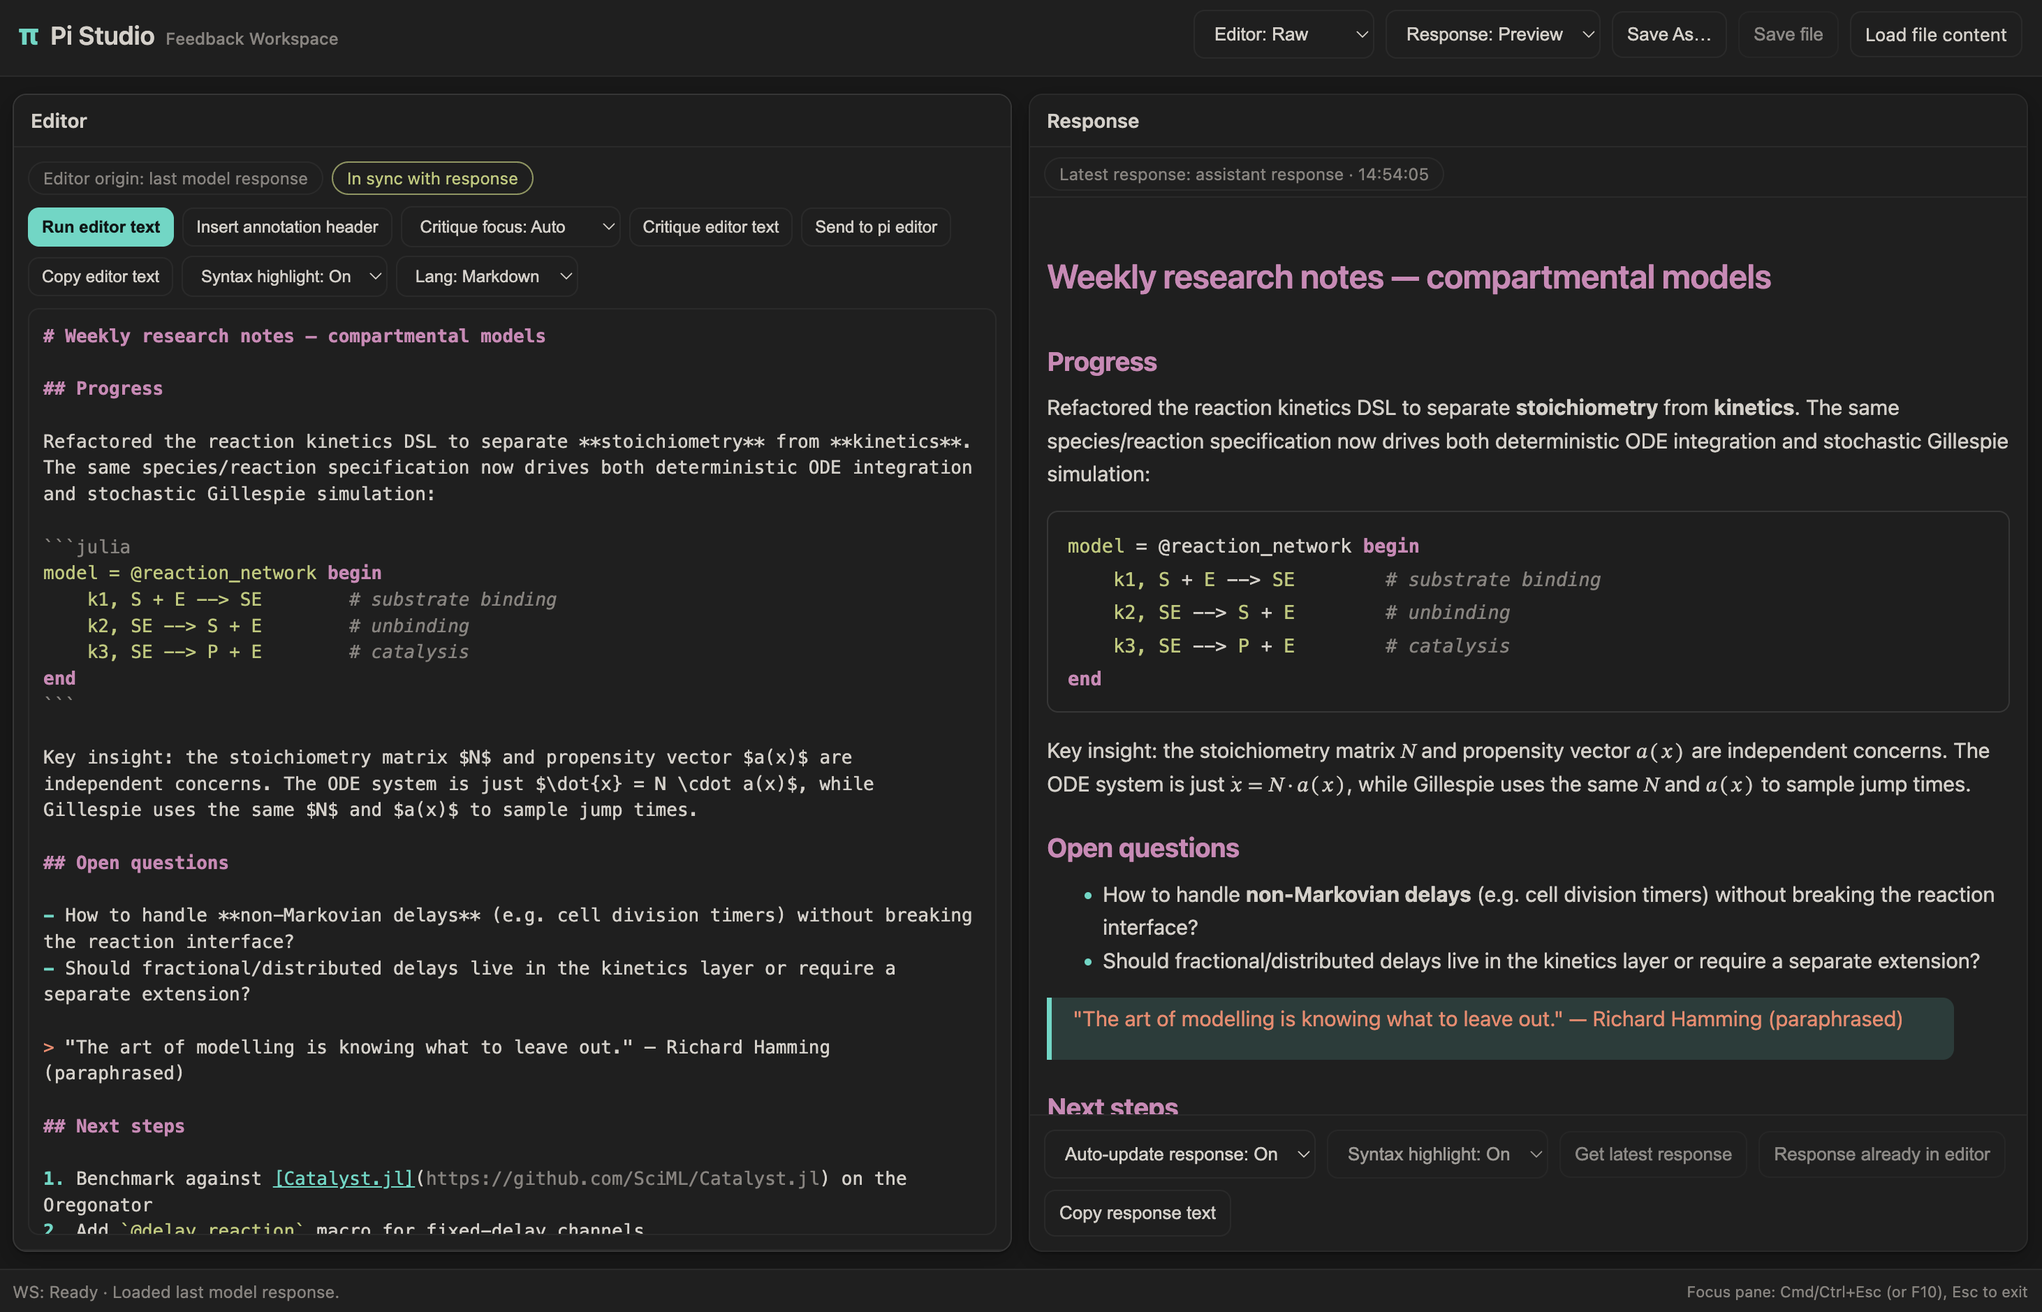
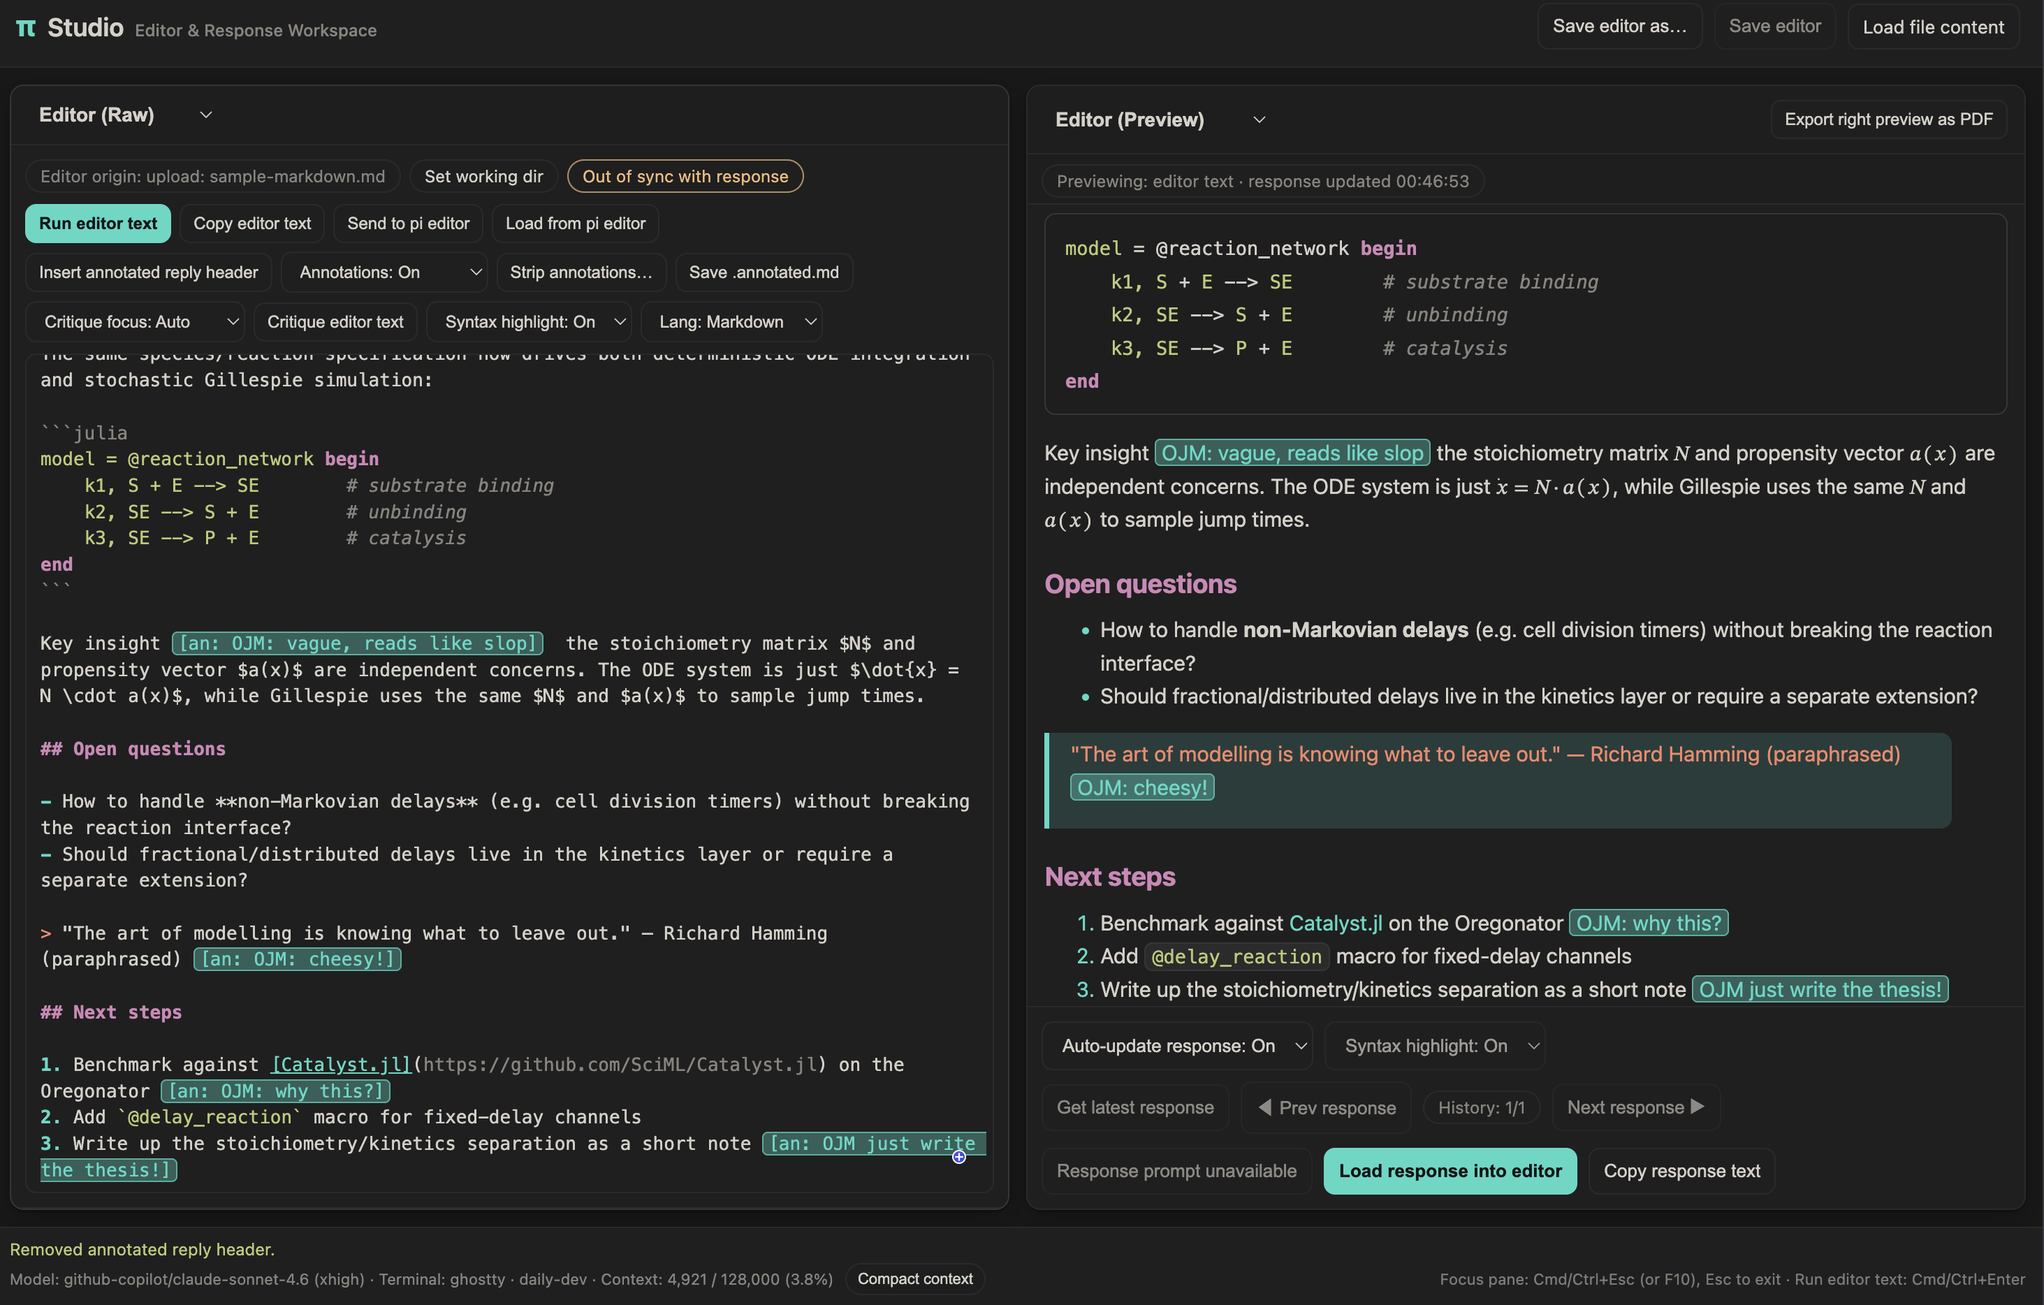
Refine Studio control layout and annotation header scaffolding

diff --git a/index.ts b/index.ts
@@ -1952,6 +1952,31 @@ ${cssVarsBlock}
       background: var(--panel-2);
       font-weight: 600;
       font-size: 14px;
+      display: flex;
+      align-items: center;
+      justify-content: space-between;
+      gap: 8px;
+      flex-wrap: wrap;
+    }
+
+    .section-header-main {
+      display: inline-flex;
+      align-items: center;
+      min-width: 0;
+    }
+
+    .section-header-actions {
+      display: inline-flex;
+      align-items: center;
+      gap: 8px;
+      flex-wrap: wrap;
+      justify-content: flex-end;
+    }
+
+    .section-header-actions button {
+      padding: 6px 9px;
+      font-size: 12px;
+      border-radius: 7px;
     }
 
     .section-header select {
@@ -2035,9 +2060,18 @@ ${cssVarsBlock}
 
     .source-actions {
       display: flex;
+      flex-direction: column;
+      gap: 6px;
+      align-items: stretch;
+      width: 100%;
+    }
+
+    .source-actions-row {
+      display: flex;
       gap: 6px;
       flex-wrap: wrap;
       align-items: center;
+      min-width: 0;
     }
 
     .source-actions button,
@@ -2586,10 +2620,28 @@ ${cssVarsBlock}
 
     .response-actions {
       display: flex;
+      flex-direction: column;
+      align-items: stretch;
+      gap: 8px;
+    }
+
+    .response-actions-row {
+      display: flex;
       align-items: center;
-      justify-content: flex-start;
       gap: 8px;
       flex-wrap: wrap;
+      min-width: 0;
+    }
+
+    .response-actions-row.history-row {
+      flex-wrap: nowrap;
+      overflow-x: auto;
+      padding-bottom: 2px;
+      scrollbar-width: thin;
+    }
+
+    .response-actions-row.history-row > * {
+      flex: 0 0 auto;
     }
 
     footer {
@@ -2765,55 +2817,61 @@ ${cssVarsBlock}
             <span id="syncBadge" class="source-badge sync-badge">No response loaded</span>
           </div>
           <div class="source-actions">
-            <button id="sendRunBtn" type="button" title="Send editor text directly to the model as-is. Shortcut: Cmd/Ctrl+Enter when editor pane is active.">Run editor text</button>
-            <button id="insertHeaderBtn" type="button" title="Insert annotated-reply protocol header (includes source metadata and [an: ...] syntax hint).">Insert annotated reply header</button>
-            <select id="annotationModeSelect" aria-label="Annotation visibility mode" title="On: keep and send [an: ...] markers. Hidden: keep markers in editor, hide in preview, and strip before Run/Critique.">
-              <option value="on" selected>Annotations: On</option>
-              <option value="off">Annotations: Hidden</option>
-            </select>
-            <select id="lensSelect" aria-label="Critique focus">
-              <option value="auto" selected>Critique focus: Auto</option>
-              <option value="writing">Critique focus: Writing</option>
-              <option value="code">Critique focus: Code</option>
-            </select>
-            <button id="critiqueBtn" type="button">Critique editor text</button>
-            <button id="sendEditorBtn" type="button">Send to pi editor</button>
-            <button id="getEditorBtn" type="button" title="Load the current terminal editor draft into Studio.">Load from pi editor</button>
-            <button id="copyDraftBtn" type="button">Copy editor text</button>
-            <button id="saveAnnotatedBtn" type="button" title="Save full editor content (including [an: ...] markers) as a .annotated.md file.">Save .annotated.md</button>
-            <button id="stripAnnotationsBtn" type="button" title="Destructively remove all [an: ...] markers from editor text.">Strip annotations…</button>
-            <select id="highlightSelect" aria-label="Editor syntax highlighting">
-              <option value="off">Syntax highlight: Off</option>
-              <option value="on" selected>Syntax highlight: On</option>
-            </select>
-            <select id="langSelect" aria-label="Highlight language">
-              <option value="markdown" selected>Lang: Markdown</option>
-              <option value="javascript">Lang: JavaScript</option>
-              <option value="typescript">Lang: TypeScript</option>
-              <option value="python">Lang: Python</option>
-              <option value="bash">Lang: Bash</option>
-              <option value="json">Lang: JSON</option>
-              <option value="rust">Lang: Rust</option>
-              <option value="c">Lang: C</option>
-              <option value="cpp">Lang: C++</option>
-              <option value="julia">Lang: Julia</option>
-              <option value="fortran">Lang: Fortran</option>
-              <option value="r">Lang: R</option>
-              <option value="matlab">Lang: MATLAB</option>
-              <option value="latex">Lang: LaTeX</option>
-              <option value="diff">Lang: Diff</option>
-              <option value="java">Lang: Java</option>
-              <option value="go">Lang: Go</option>
-              <option value="ruby">Lang: Ruby</option>
-              <option value="swift">Lang: Swift</option>
-              <option value="html">Lang: HTML</option>
-              <option value="css">Lang: CSS</option>
-              <option value="xml">Lang: XML</option>
-              <option value="yaml">Lang: YAML</option>
-              <option value="toml">Lang: TOML</option>
-              <option value="lua">Lang: Lua</option>
-              <option value="text">Lang: Plain Text</option>
-            </select>
+            <div class="source-actions-row">
+              <button id="sendRunBtn" type="button" title="Send editor text directly to the model as-is. Shortcut: Cmd/Ctrl+Enter when editor pane is active.">Run editor text</button>
+              <button id="copyDraftBtn" type="button">Copy editor text</button>
+              <button id="sendEditorBtn" type="button">Send to pi editor</button>
+              <button id="getEditorBtn" type="button" title="Load the current terminal editor draft into Studio.">Load from pi editor</button>
+            </div>
+            <div class="source-actions-row">
+              <button id="insertHeaderBtn" type="button" title="Insert annotated-reply protocol header (source metadata, [an: ...] syntax hint, precedence note, and end marker).">Insert annotated reply header</button>
+              <select id="annotationModeSelect" aria-label="Annotation visibility mode" title="On: keep and send [an: ...] markers. Hidden: keep markers in editor, hide in preview, and strip before Run/Critique.">
+                <option value="on" selected>Annotations: On</option>
+                <option value="off">Annotations: Hidden</option>
+              </select>
+              <button id="stripAnnotationsBtn" type="button" title="Destructively remove all [an: ...] markers from editor text.">Strip annotations…</button>
+              <button id="saveAnnotatedBtn" type="button" title="Save full editor content (including [an: ...] markers) as a .annotated.md file.">Save .annotated.md</button>
+            </div>
+            <div class="source-actions-row">
+              <select id="lensSelect" aria-label="Critique focus">
+                <option value="auto" selected>Critique focus: Auto</option>
+                <option value="writing">Critique focus: Writing</option>
+                <option value="code">Critique focus: Code</option>
+              </select>
+              <button id="critiqueBtn" type="button">Critique editor text</button>
+              <select id="highlightSelect" aria-label="Editor syntax highlighting">
+                <option value="off">Syntax highlight: Off</option>
+                <option value="on" selected>Syntax highlight: On</option>
+              </select>
+              <select id="langSelect" aria-label="Highlight language">
+                <option value="markdown" selected>Lang: Markdown</option>
+                <option value="javascript">Lang: JavaScript</option>
+                <option value="typescript">Lang: TypeScript</option>
+                <option value="python">Lang: Python</option>
+                <option value="bash">Lang: Bash</option>
+                <option value="json">Lang: JSON</option>
+                <option value="rust">Lang: Rust</option>
+                <option value="c">Lang: C</option>
+                <option value="cpp">Lang: C++</option>
+                <option value="julia">Lang: Julia</option>
+                <option value="fortran">Lang: Fortran</option>
+                <option value="r">Lang: R</option>
+                <option value="matlab">Lang: MATLAB</option>
+                <option value="latex">Lang: LaTeX</option>
+                <option value="diff">Lang: Diff</option>
+                <option value="java">Lang: Java</option>
+                <option value="go">Lang: Go</option>
+                <option value="ruby">Lang: Ruby</option>
+                <option value="swift">Lang: Swift</option>
+                <option value="html">Lang: HTML</option>
+                <option value="css">Lang: CSS</option>
+                <option value="xml">Lang: XML</option>
+                <option value="yaml">Lang: YAML</option>
+                <option value="toml">Lang: TOML</option>
+                <option value="lua">Lang: Lua</option>
+                <option value="text">Lang: Plain Text</option>
+              </select>
+            </div>
           </div>
         </div>
         <div id="sourceEditorWrap" class="editor-highlight-wrap">
@@ -2826,11 +2884,16 @@ ${cssVarsBlock}
 
     <section id="rightPane">
       <div id="rightSectionHeader" class="section-header">
-        <select id="rightViewSelect" aria-label="Response view mode">
-          <option value="markdown">Response (Raw)</option>
-          <option value="preview" selected>Response (Preview)</option>
-          <option value="editor-preview">Editor (Preview)</option>
-        </select>
+        <div class="section-header-main">
+          <select id="rightViewSelect" aria-label="Response view mode">
+            <option value="markdown">Response (Raw)</option>
+            <option value="preview" selected>Response (Preview)</option>
+            <option value="editor-preview">Editor (Preview)</option>
+          </select>
+        </div>
+        <div class="section-header-actions">
+          <button id="exportPdfBtn" type="button" title="Export the current right-pane preview as PDF via pandoc + xelatex.">Export right preview as PDF</button>
+        </div>
       </div>
       <div class="reference-meta">
         <span id="referenceBadge" class="source-badge">Latest response: none</span>
@@ -2838,24 +2901,29 @@ ${cssVarsBlock}
       <div id="critiqueView" class="panel-scroll rendered-markdown"><pre class="plain-markdown">No response yet.</pre></div>
       <div class="response-wrap">
         <div id="responseActions" class="response-actions">
-          <select id="followSelect" aria-label="Auto-update response">
-            <option value="on" selected>Auto-update response: On</option>
-            <option value="off">Auto-update response: Off</option>
-          </select>
-          <select id="responseHighlightSelect" aria-label="Response markdown highlighting">
-            <option value="off">Syntax highlight: Off</option>
-            <option value="on" selected>Syntax highlight: On</option>
-          </select>
-          <button id="pullLatestBtn" type="button" title="Fetch the latest assistant response when auto-update is off.">Get latest response</button>
-          <button id="historyPrevBtn" type="button" title="Show previous response in history.">◀ Prev response</button>
-          <span id="historyIndexBadge" class="source-badge">History: 0/0</span>
-          <button id="historyNextBtn" type="button" title="Show next response in history.">Next response ▶</button>
-          <button id="loadHistoryPromptBtn" type="button" title="Load the prompt that generated the selected response into the editor.">Load response prompt into editor</button>
-          <button id="loadResponseBtn" type="button">Load response into editor</button>
-          <button id="loadCritiqueNotesBtn" type="button" hidden>Load critique notes into editor</button>
-          <button id="loadCritiqueFullBtn" type="button" hidden>Load full critique into editor</button>
-          <button id="copyResponseBtn" type="button">Copy response text</button>
-          <button id="exportPdfBtn" type="button" title="Export the current right-pane preview as PDF via pandoc + xelatex.">Export right preview as PDF</button>
+          <div class="response-actions-row">
+            <select id="followSelect" aria-label="Auto-update response">
+              <option value="on" selected>Auto-update response: On</option>
+              <option value="off">Auto-update response: Off</option>
+            </select>
+            <select id="responseHighlightSelect" aria-label="Response markdown highlighting">
+              <option value="off">Syntax highlight: Off</option>
+              <option value="on" selected>Syntax highlight: On</option>
+            </select>
+          </div>
+          <div class="response-actions-row history-row">
+            <button id="pullLatestBtn" type="button" title="Fetch the latest assistant response when auto-update is off.">Get latest response</button>
+            <button id="historyPrevBtn" type="button" title="Show previous response in history.">◀ Prev response</button>
+            <span id="historyIndexBadge" class="source-badge">History: 0/0</span>
+            <button id="historyNextBtn" type="button" title="Show next response in history.">Next response ▶</button>
+          </div>
+          <div class="response-actions-row">
+            <button id="loadHistoryPromptBtn" type="button" title="Load the prompt that generated the selected response into the editor.">Load response prompt into editor</button>
+            <button id="loadResponseBtn" type="button">Load response into editor</button>
+            <button id="loadCritiqueNotesBtn" type="button" hidden>Load critique notes into editor</button>
+            <button id="loadCritiqueFullBtn" type="button" hidden>Load full critique into editor</button>
+            <button id="copyResponseBtn" type="button">Copy response text</button>
+          </div>
         </div>
       </div>
     </section>
@@ -5751,8 +5819,13 @@ ${cssVarsBlock}
         const sourceDescriptor = describeSourceForAnnotation();
         let header = "annotated reply below:\\n";
         header += "original source: " + sourceDescriptor + "\\n";
-        header += "annotation syntax: [an: your note]\\n\\n---\\n\\n";
+        header += "annotation syntax: [an: your note]\\n";
+        header += "precedence: later messages supersede these annotations unless user explicitly references them\\n\\n---\\n\\n";
         return header;
+      }
+
+      function stripAnnotationBoundaryMarker(text) {
+        return String(text || "").replace(/\\n{0,2}--- end annotations ---\\s*$/i, "");
       }
 
       function stripAnnotationHeader(text) {
@@ -5773,7 +5846,7 @@ ${cssVarsBlock}
 
         return {
           hadHeader: true,
-          body: normalized.slice(cursor),
+          body: stripAnnotationBoundaryMarker(normalized.slice(cursor)),
         };
       }
 
@@ -5786,7 +5859,7 @@ ${cssVarsBlock}
           return;
         }
         insertHeaderBtn.textContent = "Insert annotated reply header";
-        insertHeaderBtn.title = "Insert annotated-reply protocol header (includes source metadata and [an: ...] syntax hint).";
+        insertHeaderBtn.title = "Insert annotated-reply protocol header (source metadata, [an: ...] syntax hint, precedence note, and end marker).";
       }
 
       function toggleAnnotatedReplyHeader() {
@@ -5800,7 +5873,8 @@ ${cssVarsBlock}
           return;
         }
 
-        const updated = buildAnnotationHeader() + stripped.body;
+        const cleanedBody = stripAnnotationBoundaryMarker(stripped.body);
+        const updated = buildAnnotationHeader() + cleanedBody + "\\n\\n--- end annotations ---\\n\\n";
         if (isTextEquivalent(sourceTextEl.value, updated)) {
           setStatus("Annotated reply header already present.");
           return;

diff --git a/CHANGELOG.md b/CHANGELOG.md
@@ -88,6 +88,27 @@ All notable changes to `pi-studio` are documented here.
 
 ## [Unreleased]
 
+## [0.5.1] — 2026-03-06
+
+### Changed
+- Refined left-pane action grouping into clearer workflow rows (run/copy/send/load, annotation tools, critique/highlight controls).
+- Refined right-pane action grouping with consistent rows below response output:
+  - mode toggles
+  - history navigation (`Get latest`, `Prev`, `History`, `Next`)
+  - response load/copy actions
+- Moved **Export right preview as PDF** to the right-pane section header (next to response view selector).
+- Annotation header scaffold now includes precedence guidance:
+  - `precedence: later messages supersede these annotations unless user explicitly references them`
+- Inserted annotation scaffold now includes a closing boundary marker:
+  - `--- end annotations ---`
+- Removing annotation header now strips the boundary marker as well.
+- Updated default README dark/light workspace screenshots to the latest UI.
+- Moved `sample.diff` example into `assets/` with other sample files.
+- Added escaping guidance for embedded browser script/template changes to `WORKFLOW.md`.
+
+### Fixed
+- Prevented Studio boot breakage caused by unescaped newline insertion in embedded script string updates.
+
 ## [0.5.0] — 2026-03-05
 
 ### Added

diff --git a/WORKFLOW.md b/WORKFLOW.md
@@ -87,6 +87,16 @@ Rules:
 
 ---
 
+## Escaping pitfalls (implementation note)
+
+`index.ts` builds browser HTML as a TypeScript template string and embeds inline browser JavaScript. This creates multiple parse layers (TS string → HTML → JS), so incorrect escaping can break Studio boot (e.g. stuck at `Booting studio…`).
+
+Rules of thumb:
+- In embedded JS string literals authored from TS template context, use `\\n` (not `\n`) for runtime newlines.
+- Escape regex backslashes for the embedding layer (`\\s`, `\\n`, `\\[`), so browser JS receives the intended regex.
+- Prefer `JSON.stringify(value)` when injecting arbitrary text into inline script.
+- After touching inline `<script>` sections in `index.ts`, do a `/studio` boot smoke test immediately.
+
 ## Acceptance criteria
 
 1. `/studio --last` opens with editor loaded and no required mode selection.
